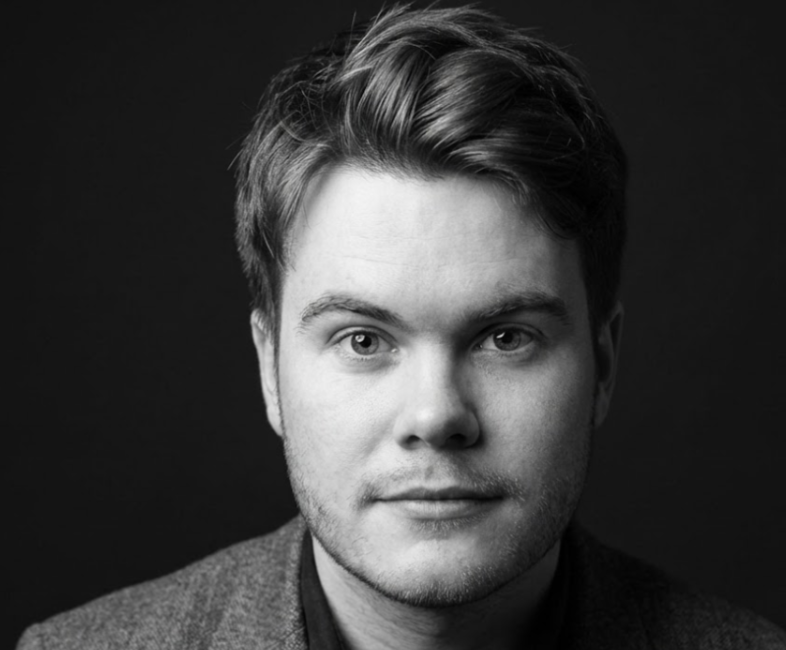
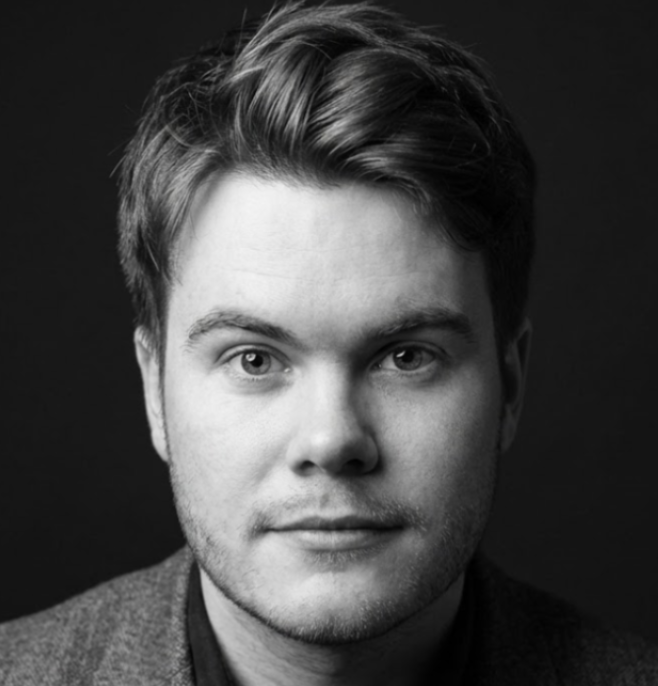
Update Founders subtitle, change Advisory Board subtitle, update Callum image

Changed region(s): [[0.0, 0.0, 0.6991, 1.0], [0.6991, 0.8308, 0.7295, 0.8615]]

diff --git a/index.html b/index.html
@@ -518,7 +518,7 @@
         <section class="advisors-section" id="founders">
             <div class="section-header">
                 <h2 class="section-title">Founders</h2>
-                <p class="section-subtitle">Building the future of precision neuromodulation.</p>
+                <p class="section-subtitle">DERIVED FROM RESEARCH FROM LEADING UNIVERSITIES</p>
             </div>
             
             <div class="advisors-grid">
@@ -546,7 +546,7 @@
                 <!-- Founder -->
                 <div class="advisor-card">
                     <div class="advisor-img-container">
-                        <img src="callum.png" alt="Callum">
+                        <img src="Callum.png" alt="Callum">
                     </div>
                     <div class="advisor-name">Callum</div>
                     <span class="advisor-role">Lead Hardware Engineer</span>
@@ -570,7 +570,7 @@
         <section class="advisors-section" id="advisory-board">
             <div class="section-header">
                 <h2 class="section-title">Advisory Board</h2>
-                <p class="section-subtitle">Derived from research from leading universities.</p>
+                <p class="section-subtitle">Expert guidance from industry leaders and academia.</p>
             </div>
             
             <div class="advisors-grid">
